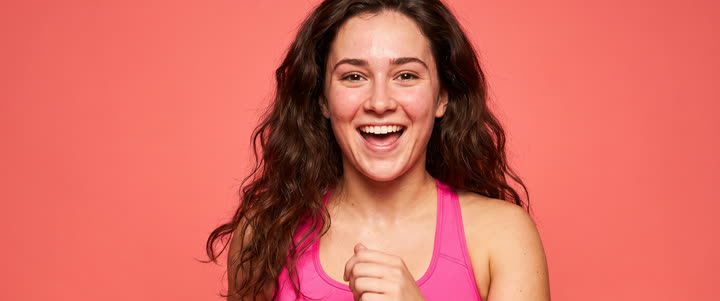
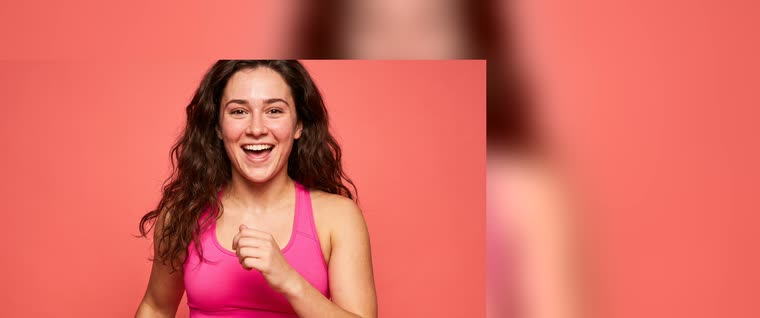
Плеер: крупный круг, музыка с отсчёта, карточка трека справа
Музыка вынесена в общий проигрыватель над маршрутами и включается уже на
обратном отсчёте, сразу после «Влиться в поток» — при переходе в плеер она
не прерывается. Пауза тренировки останавливает и её.

Круг с движением увеличен до максимума, который позволяет высота экрана.
Мотивационная надпись стоит строго над ним. Карточка трека и кнопка
полного экрана переехали в правую колонку, над «Временем в движении».

Плашки потоков: фигура уменьшена внутри кадра, поля добираются размытой
копией снимка — стык не читается. У активной плашки убрана розовая обводка.

diff --git a/src/screens/Player.tsx b/src/screens/Player.tsx
@@ -20,7 +20,7 @@ import {
 } from '../components/Icons'
 import { MOTIVATION, STREAMS, getStream } from '../data/streams'
 import { SECONDS_PER_MOVE, loopSrc } from '../data/loops'
-import { TRACKS, shuffled, trackSrc } from '../data/music'
+import { useMusic } from '../music/MusicProvider'
 import '../components/Logo.css'
 import './Player.css'
 
@@ -56,14 +56,9 @@ export default function Player() {
   const [todaySeconds, setTodaySeconds] = useState(12 * 60 + 47)
   const [motivation, setMotivation] = useState(MOTIVATION[0])
 
-  // Плейлист перемешивается один раз на заход.
-  const playlist = useMemo(() => shuffled(TRACKS), [])
-  const [trackIndex, setTrackIndex] = useState(0)
-  const [soundBlocked, setSoundBlocked] = useState(false)
-  const track = playlist[trackIndex % playlist.length]
+  const { track, blocked: soundBlocked, setPlaying: setMusicPlaying, next: nextTrack } = useMusic()
 
   const videoRef = useRef<HTMLVideoElement>(null)
-  const audioRef = useRef<HTMLAudioElement>(null)
   const loop = stream.loops[moveIndex % stream.loops.length]
   const untilSwitch = Math.max(0, SECONDS_PER_MOVE - inMove)
   const moveProgress = Math.min(1, inMove / SECONDS_PER_MOVE)
@@ -102,25 +97,10 @@ export default function Player() {
     else v.pause()
   }, [playing, loop.id])
 
-  // Музыка идёт вместе с тренировкой. Браузер может отклонить автозапуск
-  // со звуком — тогда показываем подсказку в карточке трека.
+  // Пауза тренировки останавливает и музыку.
   useEffect(() => {
-    const a = audioRef.current
-    if (!a) return
-    if (!playing) {
-      a.pause()
-      return
-    }
-    a.play().then(
-      () => setSoundBlocked(false),
-      () => setSoundBlocked(true),
-    )
-  }, [playing, trackIndex])
-
-  const nextTrack = useCallback(() => {
-    setTrackIndex((i) => (i + 1) % playlist.length)
-    setSoundBlocked(false)
-  }, [playlist.length])
+    setMusicPlaying(playing)
+  }, [playing, setMusicPlaying])
 
   const src = useMemo(() => loopSrc(loop.id), [loop.id])
 
@@ -170,24 +150,6 @@ export default function Player() {
         <header className="stage__top">
           <h1 className="stage__headline">{motivation}</h1>
 
-          <div className="stage__top-right">
-            <button
-              className={`track ${soundBlocked ? 'track--muted' : ''}`}
-              onClick={nextTrack}
-              title="Следующий трек"
-            >
-              <span className="track__icon">
-                <MusicNote size={19} />
-              </span>
-              <span className="track__text">
-                <strong>{track.title}</strong>
-                <span>{soundBlocked ? 'нажмите, чтобы включить звук' : track.artist}</span>
-              </span>
-            </button>
-            <button className="icon-btn" title="На весь экран">
-              <Fullscreen size={19} />
-            </button>
-          </div>
         </header>
 
         <div className="stage__figure">
@@ -228,14 +190,6 @@ export default function Player() {
             />
           </div>
 
-          <audio
-            ref={audioRef}
-            key={track.id}
-            src={trackSrc(track.id)}
-            onEnded={nextTrack}
-            preload="auto"
-          />
-
           <FloatNote size={30} className="stage__note stage__note--a" />
           <MusicNote size={24} className="stage__note stage__note--b" />
           <Sparkle size={15} className="stage__note stage__note--c" />
@@ -272,6 +226,25 @@ export default function Player() {
 
       {/* ——— Правая колонка ——— */}
       <aside className="player__stats">
+        <div className="stats__top">
+          <button
+            className={`track ${soundBlocked ? 'track--muted' : ''}`}
+            onClick={nextTrack}
+            title="Следующий трек"
+          >
+            <span className="track__icon">
+              <MusicNote size={19} />
+            </span>
+            <span className="track__text">
+              <strong>{track.title}</strong>
+              <span>{soundBlocked ? 'нажмите, чтобы включить звук' : track.artist}</span>
+            </span>
+          </button>
+          <button className="icon-btn" title="На весь экран">
+            <Fullscreen size={19} />
+          </button>
+        </div>
+
         <section className="stat stat--accent">
           <header className="stat__head">
             <span>Время в движении сегодня</span>

diff --git a/src/music/MusicProvider.tsx b/src/music/MusicProvider.tsx
@@ -1,0 +1,84 @@
+import {
+  createContext,
+  useCallback,
+  useContext,
+  useEffect,
+  useMemo,
+  useRef,
+  useState,
+  type ReactNode,
+} from 'react'
+import { TRACKS, type Track, shuffled, trackSrc } from '../data/music'
+
+type MusicValue = {
+  track: Track
+  playing: boolean
+  blocked: boolean
+  start: () => void
+  setPlaying: (on: boolean) => void
+  next: () => void
+}
+
+const MusicContext = createContext<MusicValue | null>(null)
+
+/**
+ * Один проигрыватель на всё приложение.
+ *
+ * Живёт выше маршрутов, поэтому музыка, запущенная на обратном отсчёте,
+ * продолжает играть при переходе в плеер без паузы и перезапуска.
+ */
+export function MusicProvider({ children }: { children: ReactNode }) {
+  const playlist = useMemo(() => shuffled(TRACKS), [])
+  const [index, setIndex] = useState(0)
+  const [playing, setPlayingState] = useState(false)
+  const [blocked, setBlocked] = useState(false)
+  const audioRef = useRef<HTMLAudioElement | null>(null)
+
+  const track = playlist[index % playlist.length]
+
+  if (audioRef.current === null && typeof Audio !== 'undefined') {
+    audioRef.current = new Audio()
+    audioRef.current.preload = 'auto'
+  }
+
+  const next = useCallback(() => {
+    setIndex((i) => (i + 1) % playlist.length)
+    setBlocked(false)
+  }, [playlist.length])
+
+  // Смена трека: подставляем источник и продолжаем, если играли.
+  useEffect(() => {
+    const a = audioRef.current
+    if (!a) return
+    a.src = trackSrc(track.id)
+    a.onended = next
+    if (playing) a.play().then(() => setBlocked(false), () => setBlocked(true))
+    return () => {
+      a.onended = null
+    }
+  }, [track.id, next])
+
+  useEffect(() => {
+    const a = audioRef.current
+    if (!a) return
+    if (playing) a.play().then(() => setBlocked(false), () => setBlocked(true))
+    else a.pause()
+  }, [playing])
+
+  useEffect(() => () => audioRef.current?.pause(), [])
+
+  const start = useCallback(() => setPlayingState(true), [])
+  const setPlaying = useCallback((on: boolean) => setPlayingState(on), [])
+
+  const value = useMemo(
+    () => ({ track, playing, blocked, start, setPlaying, next }),
+    [track, playing, blocked, start, setPlaying, next],
+  )
+  return <MusicContext.Provider value={value}>{children}</MusicContext.Provider>
+}
+
+export function useMusic(): MusicValue {
+  const ctx = useContext(MusicContext)
+  if (!ctx) throw new Error('useMusic вызван вне MusicProvider')
+  return ctx
+}

diff --git a/src/screens/Player.css b/src/screens/Player.css
@@ -52,7 +52,10 @@
 }
 
 .stream-card:hover { transform: translateY(-1px); }
-.stream-card.is-active { box-shadow: 0 0 0 2.5px var(--white), 0 0 0 4.5px rgba(255, 45, 142, .45); }
+.stream-card.is-active {
+  box-shadow: 0 8px 20px rgba(20, 22, 26, .16);
+  transform: translateY(-1px);
+}
 
 /*
  * Фото кладётся в плашку как есть, фон не вырезается.
@@ -137,15 +140,12 @@
 }
 
 .stage__top {
-  display: grid;
-  grid-template-columns: minmax(0, 1fr) auto;
-  align-items: center;
-  gap: 18px;
+  display: flex;
+  justify-content: center;
   width: 100%;
 }
 
 .stage__headline {
-  grid-column: 1;
   text-align: center;
   font-size: clamp(22px, 2.4vw, 33px);
   font-weight: 800;
@@ -153,24 +153,19 @@
   padding: 6px 0;
 }
 
-.stage__top-right {
-  grid-column: 2;
-  display: flex;
-  align-items: center;
-  gap: 10px;
-  z-index: 2;
-}
+.stats__top { display: flex; gap: 10px; }
 
 .track {
   display: flex;
+  flex: 1;
+  min-width: 0;
   align-items: center;
   gap: 10px;
-  padding: 9px 16px 9px 10px;
+  padding: 9px 14px 9px 10px;
   background: var(--white);
   border: 1px solid var(--gray-200);
   border-radius: var(--r-md);
   box-shadow: var(--shadow-card);
-  max-width: 216px;
   text-align: left;
   cursor: pointer;
   transition: border-color .15s ease, box-shadow .15s ease;
@@ -262,7 +257,7 @@
   display: flex;
   align-items: flex-start;
   gap: 40px;
-  margin-top: 26px;
+  margin-top: 20px;
 }
 
 .controls__item {
@@ -305,7 +300,7 @@
 .ctrl--main:hover { box-shadow: 0 14px 32px rgba(251, 59, 33, 0.45); }
 
 /* ═══════ Правая колонка ═══════ */
-.player__stats { display: flex; flex-direction: column; gap: 14px; padding-top: 76px; }
+.player__stats { display: flex; flex-direction: column; gap: 14px; }
 
 .stat {
   background: var(--white);

diff --git a/src/App.tsx b/src/App.tsx
@@ -2,14 +2,17 @@ import { Routes, Route, Navigate } from 'react-router-dom'
 import Landing from './screens/Landing'
 import Countdown from './screens/Countdown'
 import Player from './screens/Player'
+import { MusicProvider } from './music/MusicProvider'
 
 export default function App() {
   return (
-    <Routes>
-      <Route path="/" element={<Landing />} />
-      <Route path="/start/:streamId" element={<Countdown />} />
-      <Route path="/player/:streamId" element={<Player />} />
-      <Route path="*" element={<Navigate to="/" replace />} />
-    </Routes>
+    <MusicProvider>
+        <Routes>
+        <Route path="/" element={<Landing />} />
+        <Route path="/start/:streamId" element={<Countdown />} />
+        <Route path="/player/:streamId" element={<Player />} />
+        <Route path="*" element={<Navigate to="/" replace />} />
+      </Routes>
+    </MusicProvider>
   )
 }

diff --git a/src/screens/Countdown.tsx b/src/screens/Countdown.tsx
@@ -3,6 +3,7 @@ import { useNavigate, useParams } from 'react-router-dom'
 import Logo from '../components/Logo'
 import WaveBg from '../components/WaveBg'
 import { FloatNote, MusicNote, Sparkle } from '../components/Icons'
+import { useMusic } from '../music/MusicProvider'
 import '../components/Logo.css'
 import './Countdown.css'
 
@@ -33,6 +34,10 @@ export default function Countdown() {
   const navigate = useNavigate()
   const { streamId } = useParams()
   const [left, setLeft] = useState(START_FROM)
+  const { start } = useMusic()
+
+  // Музыка включается сразу на отсчёте, а не при появлении плеера.
+  useEffect(() => { start() }, [start])
 
   useEffect(() => {
     if (left <= 0) {
